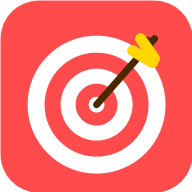
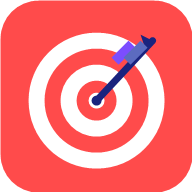
feat: 파란/보라 화살 아이콘 + 채팅 지원자 프로필 + 업주용 지도 오버레이

diff --git a/owner.html b/owner.html
@@ -440,6 +440,27 @@
   </button>
 </div>
 
+<!-- 지원자 프로필 모달 -->
+<div class="modal-overlay" id="worker-profile-overlay" onclick="if(event.target===this)this.classList.remove('open')" style="z-index:800;align-items:flex-end">
+  <div style="background:#fff;border-radius:24px 24px 0 0;width:100%;padding:0 0 40px;animation:slideUp 0.3s ease">
+    <div style="padding:14px 20px 12px;border-bottom:1px solid #f0f0f0;display:flex;align-items:center;justify-content:space-between">
+      <div style="font-size:17px;font-weight:800;color:#222">지원자 프로필</div>
+      <button onclick="document.getElementById('worker-profile-overlay').classList.remove('open')" style="font-size:22px;color:#aaa;background:none;border:none;cursor:pointer">✕</button>
+    </div>
+    <div id="worker-profile-content" style="padding:20px"></div>
+  </div>
+</div>
+
+<!-- 지도 오버레이 (업주용 주변 공고 조회) -->
+<div id="owner-map-overlay" style="display:none;position:fixed;inset:0;bottom:var(--nav-h);z-index:350;flex-direction:column;background:#f5f5f5">
+  <div style="background:#fff;padding:12px 16px;border-bottom:1px solid #f0f0f0;display:flex;align-items:center;justify-content:space-between;flex-shrink:0">
+    <div style="font-size:16px;font-weight:800;color:#222">🗺 주변 공고 현황</div>
+    <button onclick="closeOwnerMap()" style="padding:8px 16px;background:var(--red);color:#fff;border:none;border-radius:20px;font-size:13px;font-weight:800;cursor:pointer">✕ 닫기</button>
+  </div>
+  <div id="owner-map-container" style="flex:1;width:100%"></div>
+  <div id="owner-map-info" style="background:#fff;border-top:1px solid #f0f0f0;padding:10px 16px;font-size:12px;color:#888;text-align:center">마커를 클릭하면 공고 정보를 볼 수 있습니다</div>
+</div>
+
 <!-- 채팅 목록 패널 -->
 <div class="full-panel" id="panel-owner-chats">
   <div class="panel-header">💬 대화 목록</div>
@@ -509,9 +530,9 @@
 <div class="modal-overlay" id="chat-overlay" onclick="if(event.target===this)closeChat()" style="z-index:700;align-items:flex-end">
   <div style="background:#fff;border-radius:24px 24px 0 0;width:100%;height:80vh;display:flex;flex-direction:column;animation:slideUp 0.3s ease">
     <div style="padding:14px 20px 12px;border-bottom:1px solid #f0f0f0;display:flex;align-items:center;justify-content:space-between;flex-shrink:0">
-      <div>
+      <div onclick="openWorkerProfile()" style="cursor:pointer">
         <div style="font-size:16px;font-weight:800;color:#222" id="chat-title">채팅</div>
-        <div style="font-size:11px;color:#aaa;margin-top:2px" id="chat-sub"></div>
+        <div style="font-size:11px;color:var(--red);margin-top:2px" id="chat-sub">👤 프로필 보기 ›</div>
       </div>
       <button onclick="closeChat()" style="font-size:22px;color:#aaa;background:none;border:none;cursor:pointer">✕</button>
     </div>
@@ -1259,7 +1280,7 @@ function setNav(el, tab) {
   const panelChats = document.getElementById('panel-owner-chats');
   panelChats.classList.remove('show');
 
-  if (tab === 'map') { location.href = '/바로알바.html?browse=1'; return; }
+  if (tab === 'map') { openOwnerMap(); return; }
   if (tab === 'postings') switchTab('postings', document.querySelectorAll('.tab-btn')[0]);
   else if (tab === 'applicants') {
     const badge = document.getElementById('owner-chat-badge');
@@ -1280,6 +1301,95 @@ function setNav(el, tab) {
 
 // ── 채팅 ───────────────────────────────────────────────────
 let _chatAppId = null, _chatSub = null;
+
+// ── 지도 오버레이 (업주용 주변 공고 조회) ─────────────────
+let _ownerMap = null;
+
+function openOwnerMap() {
+  const overlay = document.getElementById('owner-map-overlay');
+  overlay.style.display = 'flex';
+  if (_ownerMap) return;
+  setTimeout(() => {
+    const container = document.getElementById('owner-map-container');
+    const center = bizRecord?.lat
+      ? new kakao.maps.LatLng(bizRecord.lat, bizRecord.lng)
+      : new kakao.maps.LatLng(37.5665, 126.9780);
+    _ownerMap = new kakao.maps.Map(container, { center, level: 5 });
+    loadOwnerMapJobs();
+  }, 100);
+}
+
+function closeOwnerMap() {
+  document.getElementById('owner-map-overlay').style.display = 'none';
+  document.querySelectorAll('.nav-item').forEach(n => n.classList.remove('active'));
+  document.querySelector('.nav-item').classList.add('active');
+}
+
+async function loadOwnerMapJobs() {
+  if (!_ownerMap) return;
+  const center = _ownerMap.getCenter();
+  const { data } = await db.rpc('nearby_jobs', {
+    user_lat: center.getLat(), user_lng: center.getLng(),
+    radius_meters: 5000, job_category: null
+  }).catch(() => ({ data: [] }));
+
+  (data || []).forEach(job => {
+    const pos = new kakao.maps.LatLng(job.lat, job.lng);
+    const content = `<div style="background:${job.status==='urgent'?'#FF4B4B':'#333'};color:#fff;padding:4px 8px;border-radius:12px;font-size:11px;font-weight:800;white-space:nowrap">${job.current_wage.toLocaleString()}원</div>`;
+    const overlay = new kakao.maps.CustomOverlay({ position: pos, content, yAnchor: 1 });
+    overlay.setMap(_ownerMap);
+    kakao.maps.event.addListener(overlay, 'click', () => {
+      document.getElementById('owner-map-info').innerHTML =
+        `<b>${job.biz_name}</b> — ${job.title} · ${job.current_wage.toLocaleString()}원/시 · ${job.status==='urgent'?'🔥급구':'모집중'}`;
+    });
+  });
+
+  kakao.maps.event.addListener(_ownerMap, 'dragend', loadOwnerMapJobs);
+}
+
+// ── 지원자 프로필 ─────────────────────────────────────────
+let _chatWorkerId = null;
+
+async function openWorkerProfile() {
+  if (!_chatAppId) return;
+  const { data: app } = await db.from('applications')
+    .select('*, workers(name, phone, rating, review_count, skills), job_postings(title)')
+    .eq('id', _chatAppId).single();
+  if (!app) return;
+  const w = app.workers || {};
+  const STATUS = { pending:'⏳ 검토중', accepted:'✅ 수락', rejected:'❌ 거절', completed:'🏁 완료', cancelled:'취소' };
+  document.getElementById('worker-profile-content').innerHTML = `
+    <div style="display:flex;align-items:center;gap:14px;margin-bottom:20px">
+      <div style="width:56px;height:56px;border-radius:50%;background:#FFF0F0;display:flex;align-items:center;justify-content:center;font-size:28px;flex-shrink:0">👤</div>
+      <div>
+        <div style="font-size:18px;font-weight:900;color:#222">${w.name || '이름없음'}</div>
+        <div style="font-size:13px;color:#888;margin-top:3px">★ ${w.rating || '-'} · 리뷰 ${w.review_count || 0}개</div>
+      </div>
+    </div>
+    <div style="display:flex;flex-direction:column;gap:10px">
+      <div style="background:#f8f8f8;border-radius:12px;padding:14px">
+        <div style="font-size:11px;color:#aaa;font-weight:700;margin-bottom:4px">연락처</div>
+        <div style="font-size:15px;font-weight:700;color:#222">${w.phone || '미입력'}</div>
+      </div>
+      <div style="background:#f8f8f8;border-radius:12px;padding:14px">
+        <div style="font-size:11px;color:#aaa;font-weight:700;margin-bottom:4px">지원 공고</div>
+        <div style="font-size:14px;font-weight:700;color:#222">${app.job_postings?.title || '-'}</div>
+        <div style="font-size:12px;color:#888;margin-top:4px">지원 상태: ${STATUS[app.status] || app.status}</div>
+      </div>
+      ${w.skills?.length ? `<div style="background:#f8f8f8;border-radius:12px;padding:14px"><div style="font-size:11px;color:#aaa;font-weight:700;margin-bottom:8px">보유 스킬</div><div style="display:flex;flex-wrap:wrap;gap:6px">${w.skills.map(s=>`<span style="background:#fff;border:1px solid #eee;padding:4px 10px;border-radius:20px;font-size:12px;font-weight:700">${s}</span>`).join('')}</div></div>` : ''}
+    </div>
+    <div style="display:flex;gap:8px;margin-top:16px">
+      ${app.status==='pending'?`<button onclick="updateApplicationFromProfile('${app.id}','accepted')" style="flex:1;padding:13px;background:#22c55e;color:#fff;border:none;border-radius:12px;font-size:14px;font-weight:800;cursor:pointer">✅ 수락</button><button onclick="updateApplicationFromProfile('${app.id}','rejected')" style="flex:1;padding:13px;background:#f5f5f5;color:#888;border:none;border-radius:12px;font-size:14px;font-weight:800;cursor:pointer">❌ 거절</button>`:''}
+    </div>`;
+  document.getElementById('worker-profile-overlay').classList.add('open');
+}
+
+async function updateApplicationFromProfile(appId, status) {
+  await db.from('applications').update({ status }).eq('id', appId);
+  showToast(status === 'accepted' ? '✅ 수락했습니다' : '거절했습니다');
+  document.getElementById('worker-profile-overlay').classList.remove('open');
+  loadApplicants(); loadPostings();
+}
 
 async function openChat(applicationId, workerName) {
   _chatAppId = applicationId;
